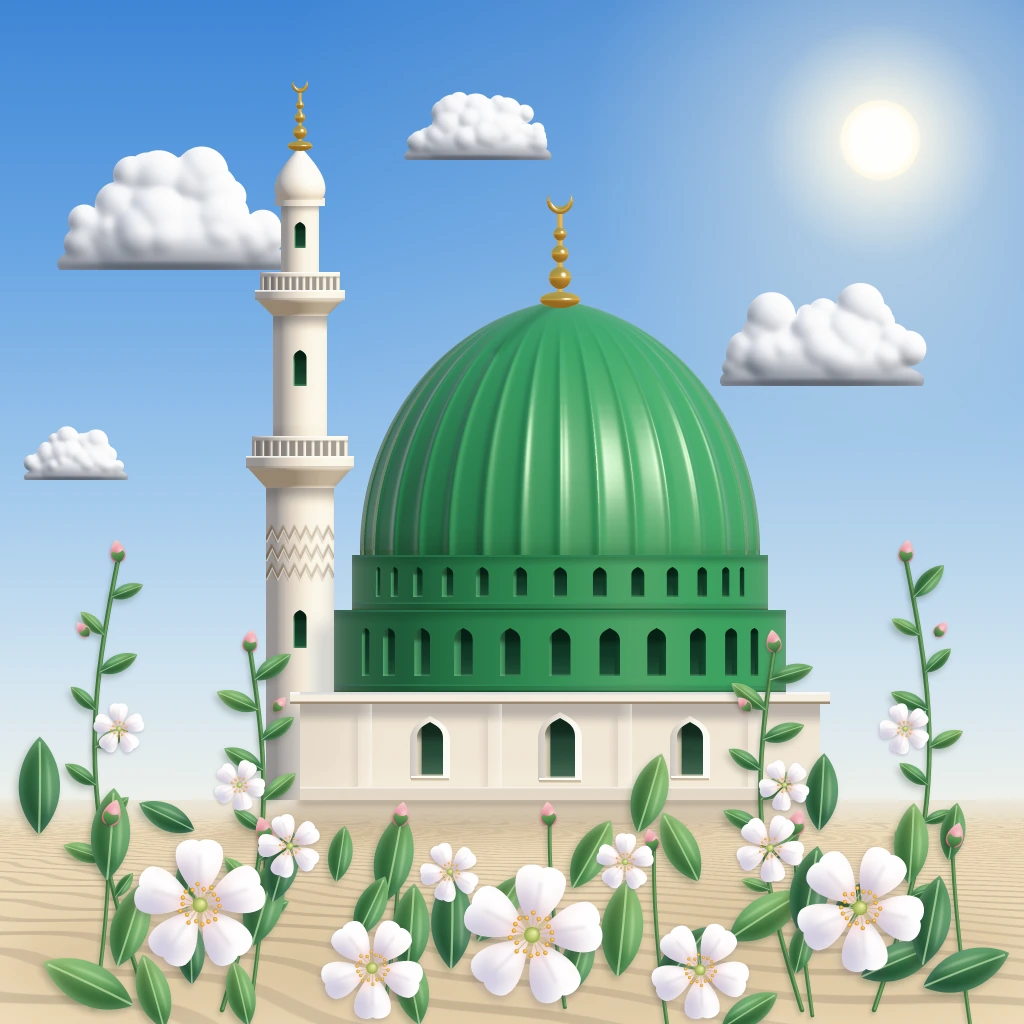
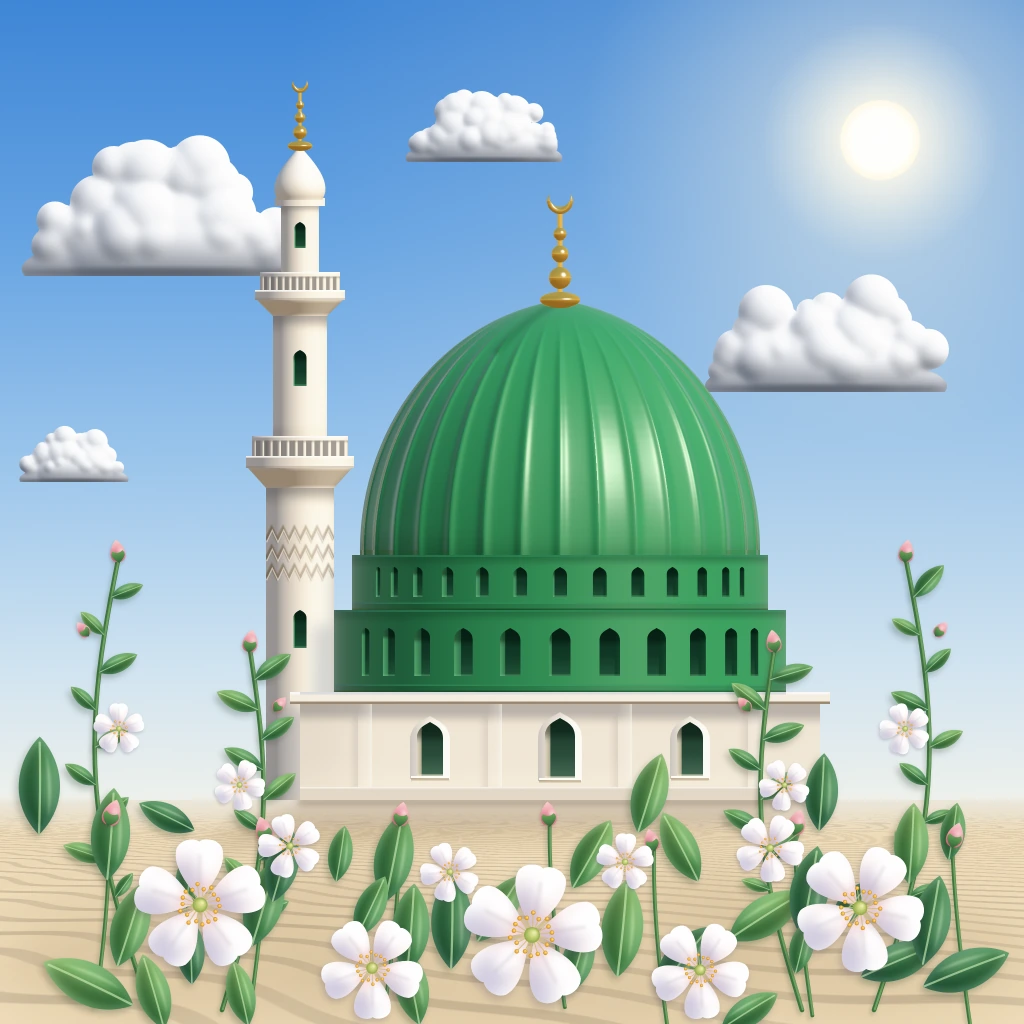
Atölye: dokulu vektör ve kumaş grafikleri (S-153–S-156, S-159) gözden geçirildi
Claude-Session: https://claude.ai/code/session_01Q8CfoBGMPN7gfLWQYpMs1J

diff --git a/atolye/stiller/S-123-gradyan-ag/ornek.html b/atolye/stiller/S-123-gradyan-ag/ornek.html
@@ -360,10 +360,10 @@
     cc.putImageData(id, 0, 0);
     ctx.drawImage(c, x1, y1, W / OL, H / OL);
   }
-  kumulus(176, 270, 1.0, 11);
-  kumulus(478, 160, 0.62, 12);
-  kumulus(822, 386, 0.86, 13);
-  kumulus(76, 480, 0.44, 14);
+  kumulus(168, 276, 1.14, 11, 1.08);
+  kumulus(484, 162, 0.66, 12);
+  kumulus(826, 392, 0.98, 13, 1.04);
+  kumulus(74, 482, 0.46, 14);
 
   // ================================================================ YER: ince rüzgâr dalgacıklı kum
   // perspektifli yer düzlemi; dalgacıklar (asimetrik sırtlar) yükseklik alanından ışıklandırılır,
